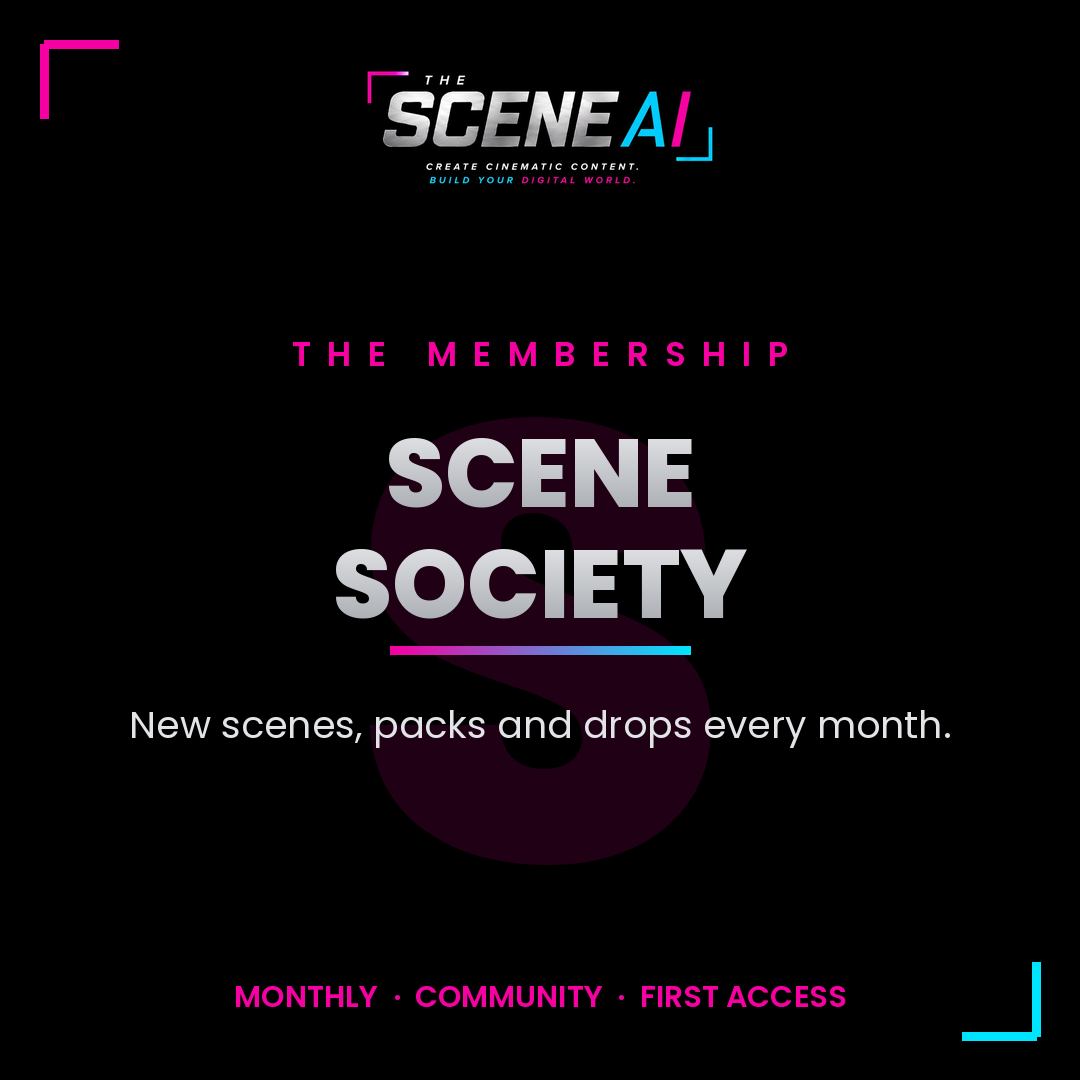
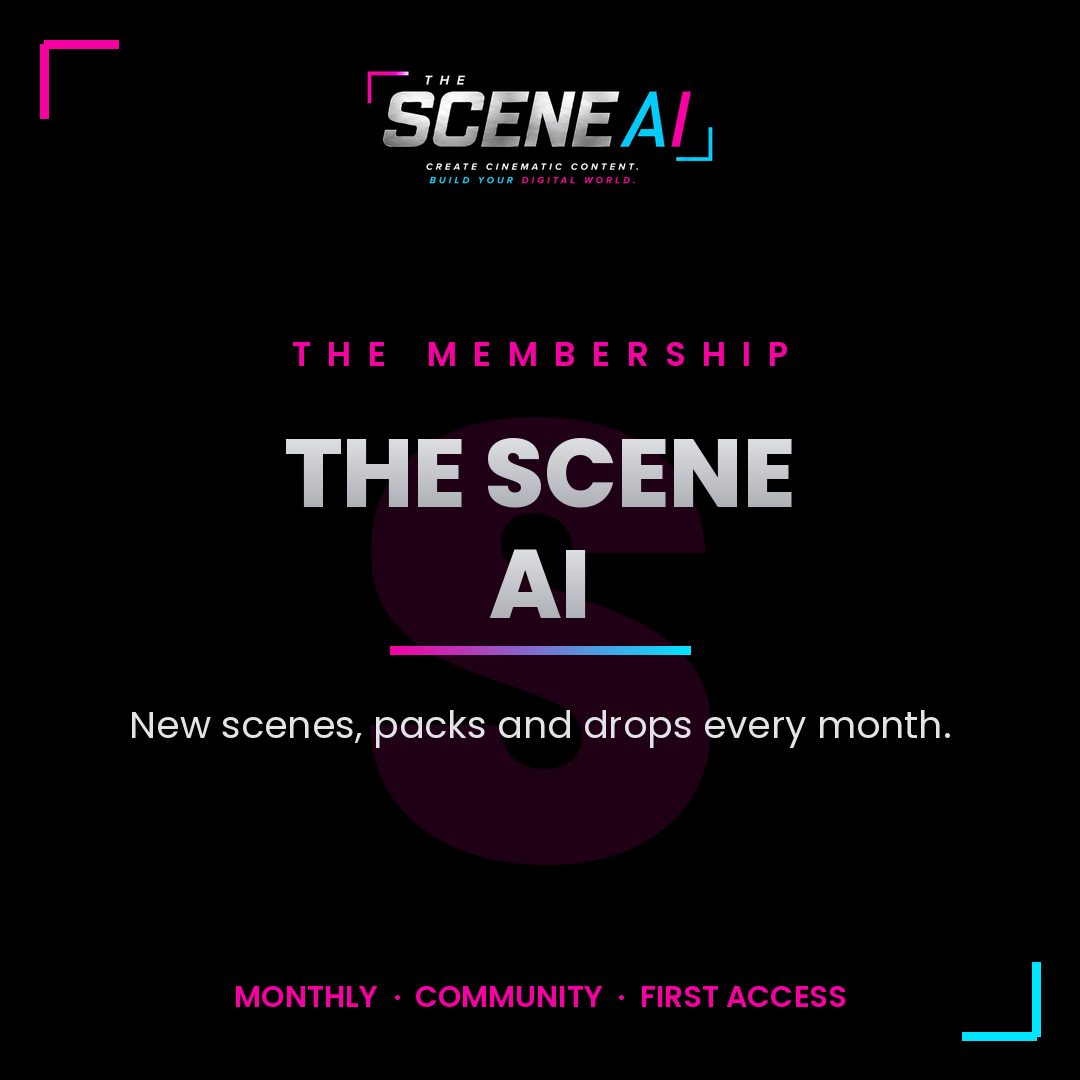
Rename community: SCENE SOCIETY → THE SCENE AI everywhere; re-render all PDFs + thumbnail
Claude-Session: https://claude.ai/code/session_01Y18hdn9vP2ZEi64tT3hWSb

Changed region(s): [[0.2444, 0.3972, 0.7333, 0.5806]]

diff --git a/scene-os/build/drop001.py b/scene-os/build/drop001.py
@@ -1,5 +1,5 @@
 #!/usr/bin/env python3
-"""SCENE Society — Drop 001 (August 2026): The Vacation Heat Drop."""
+"""THE SCENE AI — Drop 001 (August 2026): The Vacation Heat Drop."""
 import os
 
 from reportlab.lib.colors import HexColor
@@ -164,7 +164,7 @@ The first three seconds must create immediate curiosity through a natural reveal
 
 def pages():
     cover = {'page': 1, 'doc': 'DROP 001', 'elems': [
-        E('label', 'SCENE SOCIETY · DROP 001 · AUGUST'),
+        E('label', 'THE SCENE AI · DROP 001 · AUGUST'),
         E('h1', 'THE VACATION HEAT DROP'),
         E('sub', '30 new scenes, 10 new looks, and this month’s master '
                  'scene — members only.'),
@@ -223,7 +223,7 @@ def main():
     render.register_fonts()
     os.makedirs(OUT, exist_ok=True)
     S = make_styles(HexColor(MAG))
-    meta = {'kicker': 'SCENE SOCIETY · DROP 001', 'title': 'THE VACATION HEAT DROP',
+    meta = {'kicker': 'THE SCENE AI · DROP 001', 'title': 'THE VACATION HEAT DROP',
             'sub': '30 new scenes, 10 new looks, and this month’s master '
                    'scene — members only.',
             'tagline': 'CREATE THE CHARACTER. DIRECT THE SCENE. BUILD THE WORLD.',
@@ -235,8 +235,8 @@ def main():
     ps = pages()
     meta['cover_page'] = ps[0]
     build_doc('DROP 001', ps, meta,
-              os.path.join(OUT, 'SCENE-Society_Drop-001_The-Vacation-Heat-Drop.pdf'), S)
-    print('wrote SCENE-Society_Drop-001_The-Vacation-Heat-Drop.pdf')
+              os.path.join(OUT, 'THE-SCENE-AI_Drop-001_The-Vacation-Heat-Drop.pdf'), S)
+    print('wrote THE-SCENE-AI_Drop-001_The-Vacation-Heat-Drop.pdf')
 
 
 if __name__ == '__main__':

diff --git a/scene-os/marketing/gen_thumbnails.py b/scene-os/marketing/gen_thumbnails.py
@@ -124,9 +124,9 @@ card('thumb-mini-pack-1080.png', CYAN, '20', 'THE MINI-PACK',
      ['IDENTITY LOCK', 'MINI-PACK'], 'Same face. Every photo. 20 prompts.',
      'HIM + HER  ·  COPY-PASTE')
 
-# 3 · SCENE Society membership
+# 3 · THE SCENE AI membership
 card('thumb-scene-society-1080.png', MAG, 'S', 'THE MEMBERSHIP',
-     ['SCENE', 'SOCIETY'], 'New scenes, packs and drops every month.',
+     ['THE SCENE', 'AI'], 'New scenes, packs and drops every month.',
      'MONTHLY  ·  COMMUNITY  ·  FIRST ACCESS')
 
 # 4 · SCENE Studio bonus

diff --git a/scene-os/build/render.py b/scene-os/build/render.py
@@ -804,7 +804,7 @@ class SceneDoc(BaseDocTemplate):
         c.setFont(FONTS['P'], 11.5)
         c.drawCentredString(cx, ay - 132,
                             'New scene drops, packs and tools land every month inside')
-        tracked(c, 0, ay - 158, 'SCENE SOCIETY', FONTS['P-B'], 13,
+        tracked(c, 0, ay - 158, 'THE SCENE AI', FONTS['P-B'], 13,
                 m['accent'], 3.4, center_at=cx)
         gradient_bar(c, cx - 80, ay - 176, 160, 3)
         wordmark(c, cx, 96, 0.8)

diff --git a/scene-os/FUNNEL-SETUP.md b/scene-os/FUNNEL-SETUP.md
@@ -29,8 +29,8 @@ Email sequence (5 emails, below)
    ├─► $17 Identity Lock Mini-Pack ──bump──► $27 Outfit Pack
    │           └─post-purchase──► $97 Creator OS
    ├─► $97 CREATOR OS  ──bump──► $17 Mini-Pack
-   │           └─post-purchase──► SCENE SOCIETY ($9/mo Skool)
-   └─► SCENE SOCIETY $9/mo (Skool)
+   │           └─post-purchase──► THE SCENE AI ($9/mo Skool)
+   └─► THE SCENE AI $9/mo (Skool)
                 │  6 modules + drops + community
                 ▼
         🔒 WORLD BUILDER unlock ($97 in-app)
@@ -54,18 +54,18 @@ priciest. All copy in ALL-PRODUCT-COPY.md.
 | 2 | Identity Lock Mini-Pack | $17 ~~$37~~ | `The-SCENE-AI_Identity-Lock-Mini-Pack.pdf` | `thumb-mini-pack-1080.png` |
 | 3 | Female Outfit Pack™ | $27 ~~$47~~ | `The-Female-Outfit-Pack.pdf` | `thumb-outfit-pack-1080.png` |
 | 4 | THE SCENE AI Creator OS | $97 ~~$497~~ | 19-PDF zip | `keyart-square-destyni.jpg` |
-| 5 | SCENE SOCIETY™ | external link | → Skool page | `thumb-scene-society-1080.png` |
+| 5 | THE SCENE AI | external link | → Skool page | `thumb-scene-society-1080.png` |
 
 **Wiring:**
 - Mini-Pack checkout → order bump: Outfit Pack $27
 - OS checkout → order bump: Mini-Pack $17
-- OS post-purchase → upsell: SCENE SOCIETY (Skool link)
+- OS post-purchase → upsell: THE SCENE AI (Skool link)
 - OS skipped → downsell: Outfit Pack $27
 - Payment plan on OS if your Stan tier has it: 3 × $37
 
 ## PHASE 2 — Skool (45 minutes)
 
-Group: **SCENE SOCIETY™**, private, **$9/mo billed in Skool** (Hobby
+Group: **THE SCENE AI**, private, **$9/mo billed in Skool** (Hobby
 plan). About copy + join questions: SOCIETY-COPY.md.
 
 Classroom:
@@ -125,10 +125,10 @@ members, new members pay $49/mo."* (Real threshold. Announce once.)
 > → ENTER THE SCENE: [OS link]
 
 **E4 — day 6** · Subject: **$9. every month, I hand you the content.**
-> Every month inside SCENE SOCIETY: 30 new scenes, 10 new looks, one
+> Every month inside THE SCENE AI: 30 new scenes, 10 new looks, one
 > master scene filled out and ready, plus the community running the
 > same system you are. Founding members lock $9/month for life.
-> → JOIN THE SOCIETY: [Skool link]
+> → ENTER THE SCENE: [Skool link]
 
 **Post-purchase, Mini-Pack** · Subject: **your scenes + what's next**
 > Files attached. Run scene 01 today.
@@ -139,7 +139,7 @@ members, new members pay $49/mo."* (Real threshold. Announce once.)
 > Your Creator OS files: [zip link]
 > Start with the Start Here Road Map — it tells you exactly where to go.
 > Two more things you now own:
-> 1) SCENE SOCIETY unlock: join at [Skool link], answer the join
+> 1) THE SCENE AI unlock: join at [Skool link], answer the join
 >    questions with THIS email address, and the full World Builder
 >    classroom opens free.
 > 2) SCENE Studio — the tool that writes your prompts: [Studio link]
@@ -243,7 +243,7 @@ enabled on your plan during setup.
 posts, promoted. Run Phase 5 for two weeks FIRST — the episodes that get
 "is she real??" comments become the ads. Ad formula:
 > The character's clip + comment screenshots → "She's not real. I built
-> her from my phone." → "Learn it inside SCENE SOCIETY — $9 founding
+> her from my phone." → "Learn it inside THE SCENE AI — $9 founding
 > price, locks for life."
 
 **Guardrails:**
@@ -258,7 +258,7 @@ posts, promoted. Run Phase 5 for two weeks FIRST — the episodes that get
 ## WEEKLY SCOREBOARD (check every Friday)
 - Comments containing SCENE → AutoDM sends → email opt-ins (leak check #1)
 - Member count vs the 600 goal · $9 joins → World Builder unlock % (leak check #2)
-- Society joins + churn · World Builder unlocks
+- Member joins + churn · World Builder unlocks
 - Credit pool used vs remaining (own content vs client work)
 - ★ reviews collected (goal: 5 in week one — give 3–5 copies away for
   honest reviews on day one)

diff --git a/scene-os/SOCIETY-COPY.md b/scene-os/SOCIETY-COPY.md
@@ -1,10 +1,10 @@
-# SCENE SOCIETY — Skool Community Copy (v2 — $9/mo meta)
+# THE SCENE AI — Skool Community Copy (v2 — $9/mo meta)
 
 Market data (July 2026): the winning communities in this exact niche are
 all $9/mo on Skool — AI Video Bootcamp (25.8k members), AI Creator League
 (940), AI Style Secrets (827). Every one runs the same scarcity play:
 "$9 now, price jumps to $50 for new members later, early members lock $9
-for life." SCENE Society adopts the meta and beats them on deliverables.
+for life." THE SCENE AI adopts the meta and beats them on deliverables.
 
 ## The setup
 - **Billing: through Skool** ($9/mo join button on the About page — zero
@@ -19,7 +19,7 @@ for life." SCENE Society adopts the meta and beats them on deliverables.
 
 ## Skool About-page copy (FINAL — paste this)
 
-**Name:** SCENE SOCIETY™
+**Name:** THE SCENE AI
 
 **Short description (discovery line under the name):**
 > One character. A whole world. Build an AI character people follow
@@ -27,7 +27,7 @@ for life." SCENE Society adopts the meta and beats them on deliverables.
 > copy + paste.
 
 **About copy:**
-> 🎬 Welcome to SCENE SOCIETY
+> 🎬 Welcome to THE SCENE AI
 >
 > The community where creators build AI characters people follow like
 > a series — him or her.
@@ -104,7 +104,7 @@ the World Builder classroom free.)*
 - Announce the countdown on the IG broadcast channel as it approaches.
 
 ## What beats the competitors at $9
-They sell tutorials. SCENE SOCIETY ships DONE-FOR-YOU drops monthly —
+They sell tutorials. THE SCENE AI ships DONE-FOR-YOU drops monthly —
 scenes, looks, a filled master template — plus a system, not videos to
 binge. Culturally accurate by design. Him and her. Nobody else has that.
 
@@ -112,14 +112,14 @@ binge. Culturally accurate by design. Him and her. Nobody else has that.
 
 Bootcamp's ONLY upsell is an $89 one-time "Golden Ticket" (lifetime
 community access, in-app Apple Pay). That's a cashflow grab with nothing
-behind it. SCENE SOCIETY's in-Skool ascension is a real product:
+behind it. THE SCENE AI's in-Skool ascension is a real product:
 
 1. **Primary in-Skool unlock: THE CREATOR OS — $97 one-time.** The locked
    classroom section IS the golden ticket. Same price as Stan (no channel
    conflict); Skool's ~10% fee is the cost of the frictionless in-app
    Apple Pay checkout. Every $9 member sees the locked section daily.
 2. **Held in reserve: "Founders' Lifetime" — $89 one-time** for lifetime
-   Society access (the exact Bootcamp play). Run it as a limited flash
+   community access (the exact Bootcamp play). Run it as a limited flash
    offer in a slow month, never as a standing offer — a standing lifetime
    pass caps recurring revenue from your best members.
 
@@ -128,8 +128,8 @@ Room. Bootcamp's members can only ever give them $9/mo or $89 once.
 SCENE members have somewhere to go.
 
 ## Funnel updates
-- OS post-purchase upsell → "Join SCENE SOCIETY — $9/mo founding price"
+- OS post-purchase upsell → "Join THE SCENE AI — $9/mo founding price"
   (Skool link)
-- Free Character Starter email sequence → Society invite as email 2
-- Stan can list Society as an external-link card pointing to the Skool
+- Free Character Starter email sequence → community invite as email 2
+- Stan can list the community as an external-link card pointing to the Skool
   page (keeps the store as the single storefront)

diff --git a/scene-os/ALL-PRODUCT-COPY.md b/scene-os/ALL-PRODUCT-COPY.md
@@ -210,14 +210,14 @@ downloadable products, all sales are final.
 > "Add 20 ready-to-run photo scenes with the lock built in. One-click
 > add: $17."
 
-**Upsell after purchase:** SCENE Society (copy below).
+**Upsell after purchase:** THE SCENE AI (copy below).
 **Downsell if they skip the OS ($27):** The Female Outfit Pack —
 > "Not ready for the full system? Start with the closet — 210 complete
 > looks for your female character, $27."
 
 ---
 
-# 5 · $9/mo — SCENE SOCIETY™ (Skool community — see SOCIETY-COPY.md)
+# 5 · $9/mo — THE SCENE AI (Skool community — see SOCIETY-COPY.md)
 
 **Where it lives:** Skool, billed through Skool at **$9/mo** (founding
 price, locks for life; rises to $49/mo at a real member threshold). This
@@ -225,18 +225,18 @@ matches the niche meta — the top communities in this exact lane (AI Video
 Bootcamp 25.8k, AI Creator League, AI Style Secrets) are all $9 on Skool.
 
 **On Stan:** list as an external-link card pointing to the Skool page.
-> Card: "SCENE SOCIETY™ — the $9/mo community. A new drop every month:
+> Card: "THE SCENE AI — the $9/mo community. A new drop every month:
 > 30 scenes, 10 looks, the Master Scene. Founding price locks for life."
-> Button: JOIN THE SOCIETY
+> Button: ENTER THE SCENE
 **Thumbnail:** `thumb-scene-society-1080.png`
 **Inside Skool:** Drop 001 in the classroom; full OS classroom unlocks
 for verified $97 buyers (email-match join question).
 
 **Product page:**
-> The system got you started. The Society keeps you posting.
+> The system got you started. The community keeps you posting.
 >
 > The #1 reason creators stall isn't skill — it's running out of ideas.
-> SCENE Society fixes that permanently. Every month, a new drop lands in
+> THE SCENE AI fixes that permanently. Every month, a new drop lands in
 > your inbox: fresh scenes, fresh looks, a new master scene, and the
 > latest tool settings — all in the same copy-paste format as the
 > Creator OS.
@@ -257,7 +257,7 @@ for verified $97 buyers (email-match join question).
 > the AI-powered SCENE Studio joins the membership.
 
 **Bottom title:** Your world doesn't pause. Neither do the drops.
-**CTA button:** JOIN THE SOCIETY
+**CTA button:** ENTER THE SCENE
 **Fine print:** Billed monthly through Stan. Cancel anytime — you keep
 every drop you received. Drop 001 + your community invite are delivered
 instantly when you join.
@@ -288,7 +288,7 @@ IG post/reel → "Comment SCENE"
             checkout bump: Outfit Pack $27
             → post-purchase upsell: Creator OS $97
                checkout bump: Mini-Pack or Outfit Pack
-               → post-purchase upsell: SCENE Society $37/mo
+               → post-purchase upsell: THE SCENE AI $37/mo
                → skipped the OS? downsell: Outfit Pack $27
 ```
 

diff --git a/scene-os/OFFER-LADDER.md b/scene-os/OFFER-LADDER.md
@@ -14,7 +14,7 @@ $1,497–$2,600 and a $147/mo content hub in an adjacent niche.
 | Tier | Offer | Price | Where |
 |---|---|---|---|
 | 0 | The Character Starter (GPT + agent) | FREE | AutoDM delivery + Skool classroom |
-| 1 | **SCENE SOCIETY™** — community + 6 modules + monthly drops | **$9/mo** (founding, → $49 later) | Skool |
+| 1 | **THE SCENE AI** — community + 6 modules + monthly drops | **$9/mo** (founding, → $49 later) | Skool |
 | 2 | Identity Lock Mini-Pack / Female Outfit Pack | $17 / $27 | Skool classroom unlocks |
 | 3 | **THE WORLD BUILDER unlock** — the rest of the OS | **$97** one-time | Skool unlock |
 | 4 | **CHARACTER, DELIVERED** — DFY product | **$297** | Square link |
@@ -66,7 +66,7 @@ same deliverables every time, 5–7 day turnaround:
 - 1 complete first-episode master prompt (Director's template, filled)
 - The Character Bible: a branded PDF with their prompt, their rule,
   their roadmap
-- 30 days of SCENE SOCIETY included
+- 30 days of THE SCENE AI included
 
 **Stan copy:**
 > **CHARACTER, DELIVERED — $297 ~~$497~~**
@@ -103,8 +103,8 @@ the bundle beats buying separately:
 - 30-day posting calendar
 - **The keyword funnel, set up**: their keyword chosen, pin templates
   written, AutoDM reply script — the money layer, done
-- **The World Builder unlock included** ($97 value) + 60 days of SCENE
-  SOCIETY
+- **The World Builder unlock included** ($97 value) + 60 days of THE SCENE
+  AI membership
 - One revision round · priority 14-day delivery
 
 **Stan copy:**
@@ -193,7 +193,7 @@ The **+$25/episode 4K add-on** stays: true 4K cost delta is ~$16/episode
 with retries, so the add-on covers it with margin. All-4K Premiere:
 +$150. All-4K retainer: +$200–250/mo.
 
-## Economics sanity check (per 100 Society members)
+## Economics sanity check (per 100 members)
 - 100 × $9 ≈ $780/mo net (Skool fee) — the base layer
 - ~10–15% take the $97 unlock ≈ $1,000–1,500
 - 2–3 CHARACTER, DELIVERED/mo ≈ $600–900

diff --git a/scene-os/STAN-STORE-STUDY.md b/scene-os/STAN-STORE-STUDY.md
@@ -88,7 +88,7 @@ their buyers look for after the prompt pack disappoints.
    carry risk reversal).
    - **Order bump at checkout ($17–27):** the Mini-Pack or Outfit Pack
      (whichever they don't own).
-   - **Upsell after purchase ($37/mo):** **SCENE Society** — monthly scene
+   - **Upsell after purchase ($37/mo):** **THE SCENE AI** — monthly scene
      libraries, seasonal outfit/hair drops, community. (This is the
      recurring-revenue layer Jenna/Abigail-tier stores live on.)
    - **Downsell if they skip the core ($27):** Outfit Pack or Mini-Pack —

diff --git a/scene-os/GAME-PLAN.md b/scene-os/GAME-PLAN.md
@@ -108,7 +108,7 @@
 ### The ladder (60–90 days, from the Lyttle playbook)
 8. **Free live challenge** ("Build her in a weekend") → fills the list.
 9. **SCENE AI core** → the 19-module system (current product).
-10. **SCENE Society membership** → monthly drops: new scene libraries,
+10. **THE SCENE AI membership** → monthly drops: new scene libraries,
     seasonal outfit/hair packs, new hook vaults, community. Recurring
     revenue; your catalog instinct already fits this.
 11. **Premium tier** → 1:1 creative direction or a small-group
